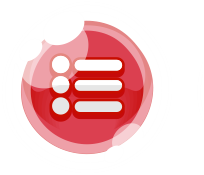
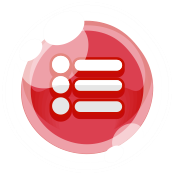
Add files via upload

Changed region(s): [[0.0862, 0.1143, 0.8908, 0.8857]]

diff --git a/c2runtime.js b/c2runtime.js
@@ -21270,7 +21270,7 @@ cr.getProjectModel = function() { return [
 			false,
 			2727867915520526,
 			[
-				["images/backtomenu-sheet0.png", 15255, 0, 0, 204, 175, 1, 0.4215686321258545, 0.4971428513526917,[],[0.5735293626785278,-0.4971428513526917,0.5735293626785278,-0.4971428513526917,0.5735293626785278,-0.4971428513526917,0.5735293626785278,0.5028571486473084,0.5735293626785278,0.5028571486473084,0.5735293626785278,0.5028571486473084,0.5735293626785278,0.5028571486473084,-0.4215686321258545,0.5028571486473084],0]
+				["images/backtomenu-sheet0.png", 14762, 0, 0, 174, 175, 1, 0.4942528605461121, 0.4971428513526917,[],[0.5057471394538879,-0.4971428513526917,0.5057471394538879,-0.4971428513526917,0.5057471394538879,-0.4971428513526917,0.5057471394538879,0.5028571486473084,0.5057471394538879,0.5028571486473084,0.5057471394538879,0.5028571486473084,0.5057471394538879,0.5028571486473084,-0.4942528605461121,0.5028571486473084],0]
 			]
 			]
 		],
@@ -22776,9 +22776,9 @@ cr.getProjectModel = function() { return [
 				]
 			]
 ,			[
-				[1125, 765, 0, 173, 175, 0, 0, 1, 0.5549132823944092, 0.4914285838603973, 0, 0, []],
-				33,
-				95,
+				[810, 765, 0, 174, 175, 0, 0, 1, 0.4942528605461121, 0.4971428513526917, 0, 0, []],
+				32,
+				97,
 				[
 				],
 				[
@@ -22791,9 +22791,9 @@ cr.getProjectModel = function() { return [
 				]
 			]
 ,			[
-				[810, 765, 0, 204, 175, 0, 0, 1, 0.4215686321258545, 0.4971428513526917, 0, 0, []],
-				32,
-				97,
+				[1125, 765, 0, 173, 175, 0, 0, 1, 0.5549132823944092, 0.4914285838603973, 0, 0, []],
+				33,
+				95,
 				[
 				],
 				[
@@ -23235,7 +23235,7 @@ cr.getProjectModel = function() { return [
 				]
 			]
 ,			[
-				[810, 765, 0, 204, 175, 0, 0, 1, 0.4215686321258545, 0.4971428513526917, 0, 0, []],
+				[810, 765, 0, 174, 175, 0, 0, 1, 0.4942528605461121, 0.4971428513526917, 0, 0, []],
 				32,
 				59,
 				[
@@ -23664,7 +23664,7 @@ cr.getProjectModel = function() { return [
 				]
 			]
 ,			[
-				[810, 765, 0, 204, 175, 0, 0, 1, 0.4215686321258545, 0.4971428513526917, 0, 0, []],
+				[810, 765, 0, 204, 175, 0, 0, 1, 0.4942528605461121, 0.4971428513526917, 0, 0, []],
 				32,
 				164,
 				[
@@ -24178,7 +24178,7 @@ cr.getProjectModel = function() { return [
 				]
 			]
 ,			[
-				[810, 765, 0, 204, 175, 0, 0, 1, 0.4215686321258545, 0.4971428513526917, 0, 0, []],
+				[810, 765, 0, 204, 175, 0, 0, 1, 0.4942528605461121, 0.4971428513526917, 0, 0, []],
 				32,
 				189,
 				[
@@ -24677,7 +24677,7 @@ cr.getProjectModel = function() { return [
 				]
 			]
 ,			[
-				[810, 765, 0, 204, 175, 0, 0, 1, 0.4215686321258545, 0.4971428513526917, 0, 0, []],
+				[810, 765, 0, 204, 175, 0, 0, 1, 0.4942528605461121, 0.4971428513526917, 0, 0, []],
 				32,
 				222,
 				[
@@ -25176,7 +25176,7 @@ cr.getProjectModel = function() { return [
 				]
 			]
 ,			[
-				[810, 765, 0, 204, 175, 0, 0, 1, 0.4215686321258545, 0.4971428513526917, 0, 0, []],
+				[810, 765, 0, 204, 175, 0, 0, 1, 0.4942528605461121, 0.4971428513526917, 0, 0, []],
 				32,
 				226,
 				[
@@ -25730,7 +25730,7 @@ cr.getProjectModel = function() { return [
 				]
 			]
 ,			[
-				[810, 765, 0, 204, 175, 0, 0, 1, 0.4215686321258545, 0.4971428513526917, 0, 0, []],
+				[810, 765, 0, 204, 175, 0, 0, 1, 0.4942528605461121, 0.4971428513526917, 0, 0, []],
 				32,
 				229,
 				[
@@ -26284,7 +26284,7 @@ cr.getProjectModel = function() { return [
 				]
 			]
 ,			[
-				[810, 765, 0, 204, 175, 0, 0, 1, 0.4215686321258545, 0.4971428513526917, 0, 0, []],
+				[810, 765, 0, 204, 175, 0, 0, 1, 0.4942528605461121, 0.4971428513526917, 0, 0, []],
 				32,
 				232,
 				[
@@ -26838,7 +26838,7 @@ cr.getProjectModel = function() { return [
 				]
 			]
 ,			[
-				[810, 765, 0, 204, 175, 0, 0, 1, 0.4215686321258545, 0.4971428513526917, 0, 0, []],
+				[810, 765, 0, 204, 175, 0, 0, 1, 0.4942528605461121, 0.4971428513526917, 0, 0, []],
 				32,
 				235,
 				[
@@ -27986,19 +27986,6 @@ false,false,1110034947254872,false
 					]
 				]
 ,				[
-					31,
-					cr.plugins_.Sprite.prototype.acts.SetVisible,
-					null,
-					3109932096426639,
-					false
-					,[
-					[
-						3,
-						0
-					]
-					]
-				]
-,				[
 					18,
 					cr.behaviors.EightDir.prototype.acts.SetEnabled,
 					"8Direction",
@@ -28513,7 +28500,7 @@ false,false,1110034947254872,false
 					]
 				]
 ,				[
-					31,
+					33,
 					cr.plugins_.Sprite.prototype.acts.SetVisible,
 					null,
 					26239288553698,
@@ -29442,7 +29429,7 @@ false,false,1110034947254872,false
 				,[
 				[
 					4,
-					31
+					33
 				]
 				]
 			]
@@ -29473,7 +29460,7 @@ false,false,1110034947254872,false
 			null,
 			false,
 			null,
-			2408446987039862,
+			9900152912251277,
 			[
 			[
 				28,
@@ -29483,7 +29470,7 @@ false,false,1110034947254872,false
 				false,
 				false,
 				false,
-				6691433721173835,
+				9556213064368606,
 				false
 				,[
 				[
@@ -29498,7 +29485,7 @@ false,false,1110034947254872,false
 				-1,
 				cr.system_object.prototype.acts.GoToLayout,
 				null,
-				816365746098568,
+				6746150640890994,
 				false
 				,[
 				[
